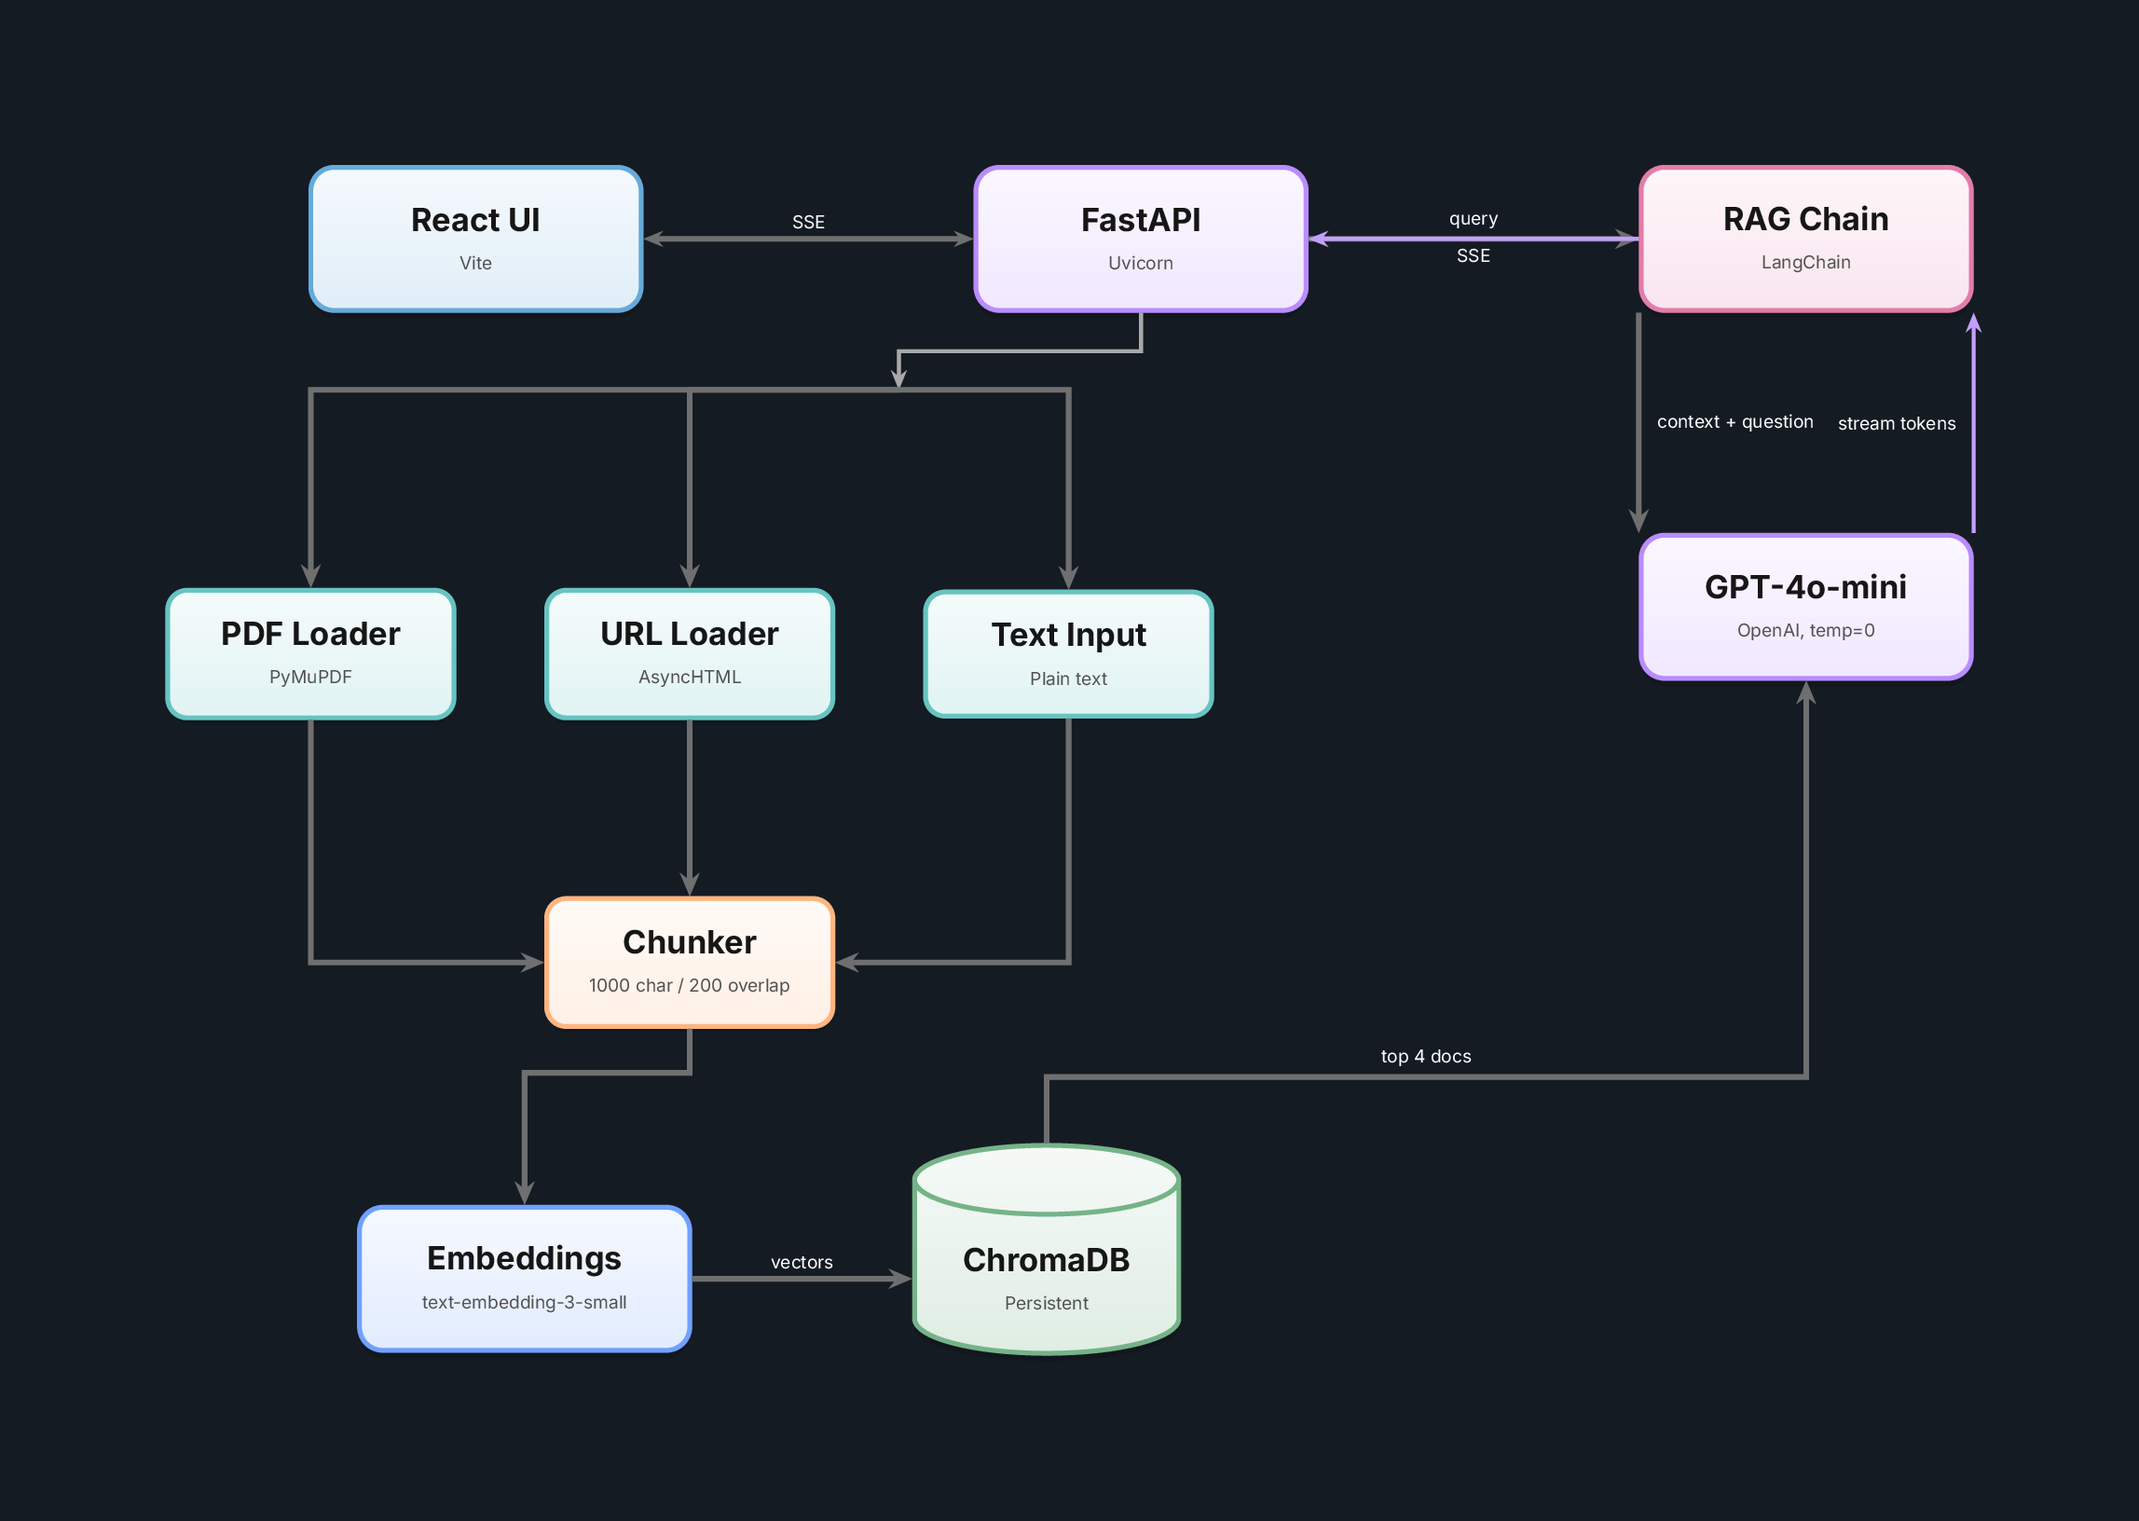
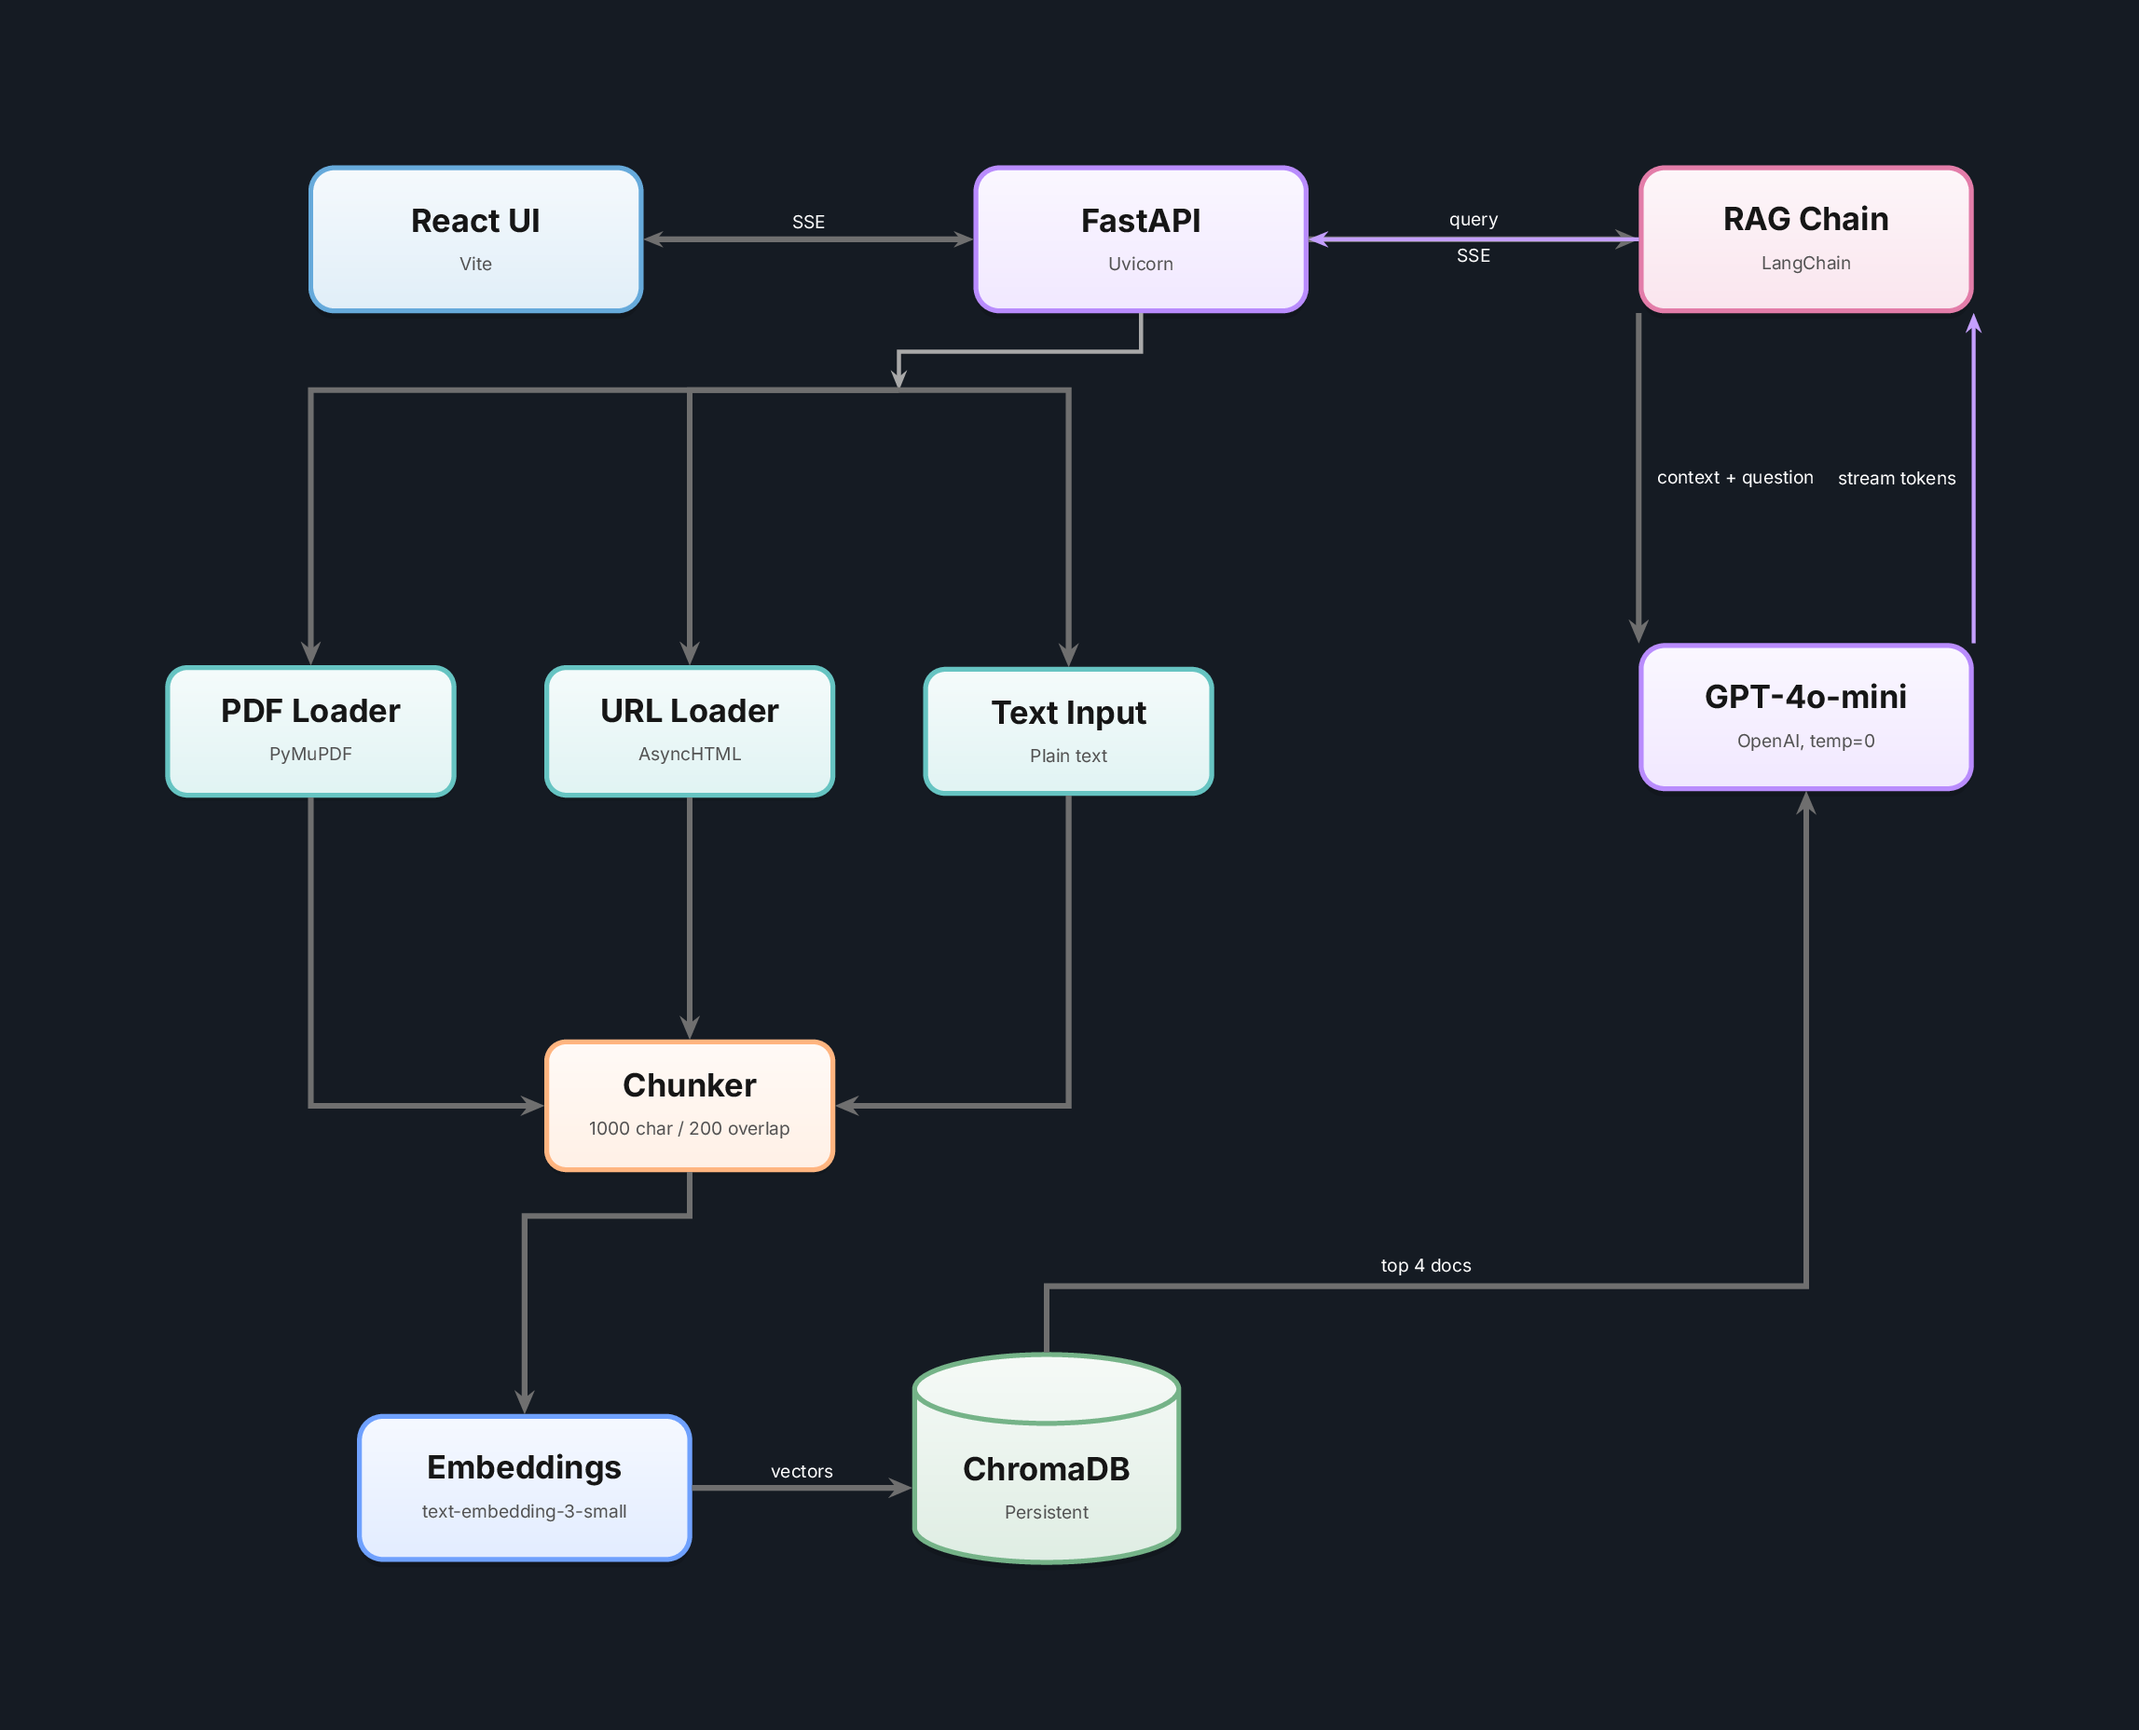
Add more vertical spacing to architecture diagram

diff --git a/diagrams/architecture.tex b/diagrams/architecture.tex
@@ -152,7 +152,7 @@
 
 % === ROW 2: Ingestion sources ===
 
-\node[step=teal, below=2.5cm of client, xshift=-1.5cm]
+\node[step=teal, below=3.2cm of client, xshift=-1.5cm]
   (pdf) {\textbf{PDF Loader}\\[-1pt]\nsub{PyMuPDF}};
 
 \node[step=teal, right=0.8cm of pdf]
@@ -170,7 +170,7 @@
 
 % === ROW 3: Chunking ===
 
-\node[step=orange, below=1.6cm of url]
+\node[step=orange, below=2.2cm of url]
   (chunker) {\textbf{Chunker}\\[-1pt]\nsub{1000 char / 200 overlap}};
 
 \draw[flow] (pdf.south) |- (chunker.west);
@@ -179,7 +179,7 @@
 
 % === ROW 4: Embeddings + Vector Store ===
 
-\node[service=primary, below=1.6cm of chunker, xshift=-1.5cm]
+\node[service=primary, below=2.2cm of chunker, xshift=-1.5cm]
   (embeddings) {\textbf{Embeddings}\\[-1pt]\nsub{text-embedding-3-small}};
 
 \node[stor=green, right=2cm of embeddings]
@@ -193,7 +193,7 @@
 \node[service=magenta, right=3cm of api]
   (rag) {\textbf{RAG Chain}\\[-1pt]\nsub{LangChain}};
 
-\node[service=purple, below=2cm of rag]
+\node[service=purple, below=3cm of rag]
   (llm) {\textbf{GPT-4o-mini}\\[-1pt]\nsub{OpenAI, temp=0}};
 
 % API -> RAG
